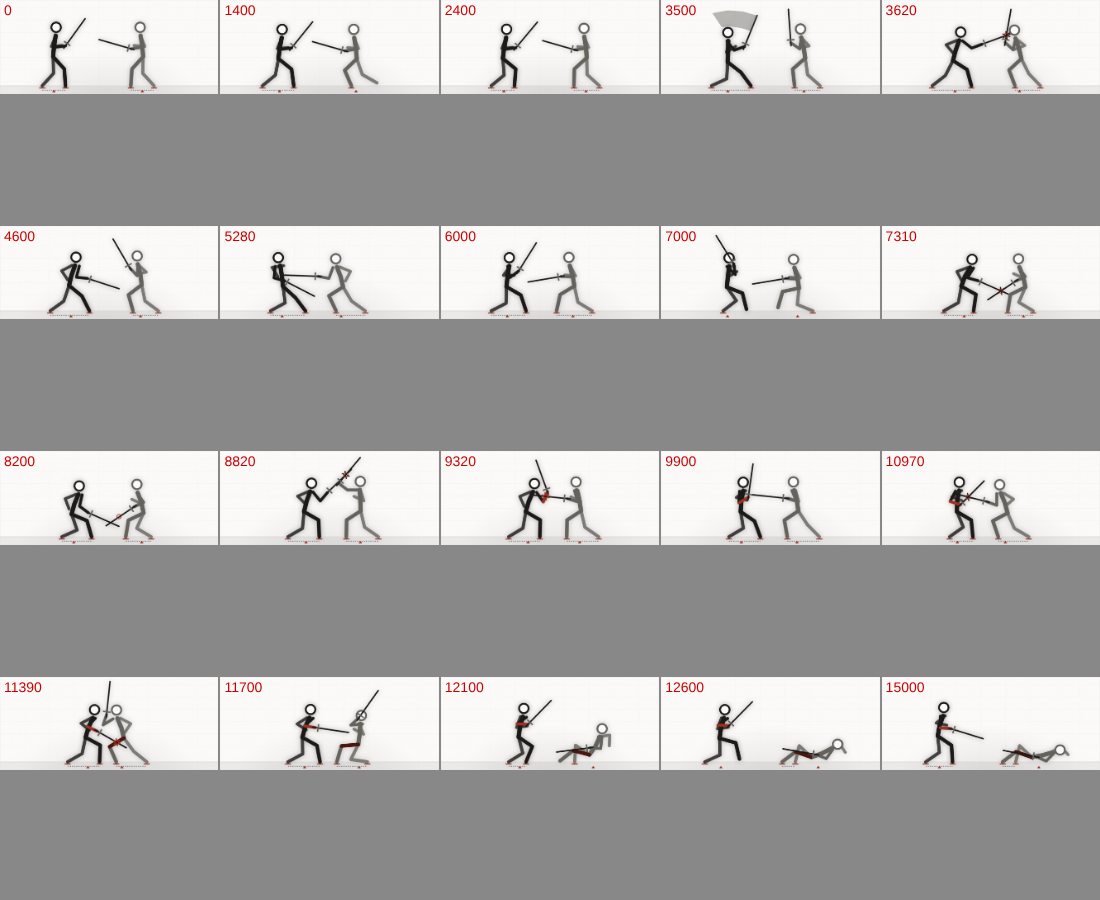
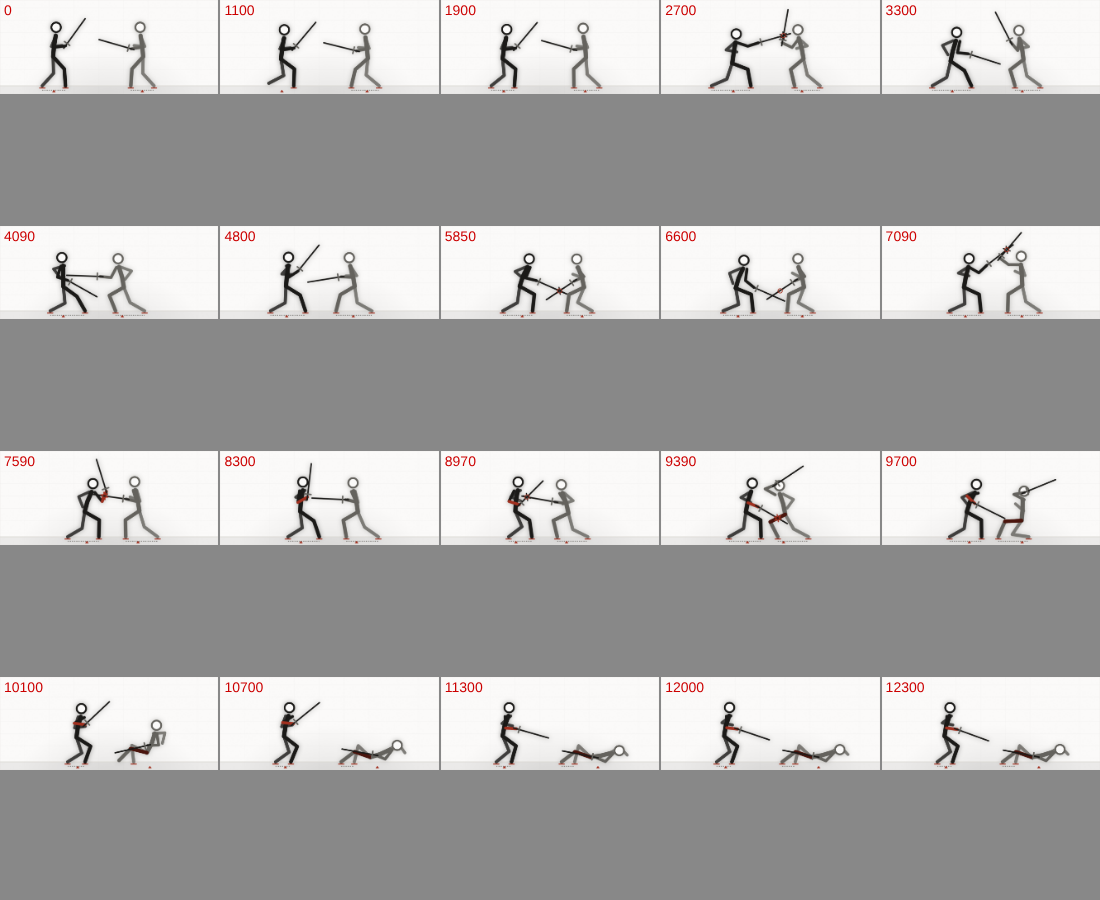
feat(pits): fight study smoother and never still
Owner's review: basically there, but not smooth; a little faster; nobody is ever
still in a real fight. Eased keys (target smoothing), a live drift on every
fighter (weight, breathing, guard, head), smooth foot arcs with the hips
travelling as the foot leaves, hips easing down before a leg runs out. About
12.3 s. Fixed: B's point left in A's chest after the deflection, A's thigh cut
carrying into B's hip, an over-long last step. Body jerk (worst 1%) 0.06 to 0.01.

Claude-Session: https://claude.ai/code/session_018bTfyrAX6cckCNBNYAZYCu

diff --git a/experiments/pits-fight.js b/experiments/pits-fight.js
@@ -22,6 +22,16 @@ function buildFight(){
   const A=new Fighter('a',480,1,WEAPONS.sword,{...SWORD_GUARD,h:[27,-28],w:54});
   const B=new Fighter('b',720,-1,{...WEAPONS.sword},{...SWORD_GUARD,h:[26,-36],w:16});
   A.spring=B.spring=FIRM;A.minReach=B.minReach=20;
+  // smooth: every key is eased into (35 ms; strikes a third of that), so nothing starts from rest with a jolt
+  A.smooth=B.smooth=35;
+  // steps: a foot lifts and lands on a smooth arc, and the hips start travelling as it leaves (not at mid-step)
+  A.liftShape=B.liftShape=1;A.stepLead=B.stepLead=.1;
+  // alive: a slow weight shift, breathing, the guard and the head never quite still (amplitudes in rig units and degrees,
+  // periods in ms; each fighter has its own phases). Once B is down only the breathing is left.
+  const LIFE=(ph)=>({amp:{px:2.2,py:1.3,lean:1.4,bend:.8,head:1.6,turn:1.5,hx:1.8,hy:1.6,wr:3.5,ox:2.2,oy:2},
+    per:{px:1900,py:1150,lean:2300,bend:1700,head:1500,turn:2100,hx:1350,hy:1750,wr:1600,ox:1450,oy:1250},
+    ph:Object.fromEntries(['px','py','lean','bend','head','turn','hx','hy','wr','ox','oy'].map((c,i)=>[c,ph+i*1.7]))});
+  A.life=LIFE(0);B.life=LIFE(2.1);
   const F={a:A,b:B};
   const seq={id:'fight',title:'A fight in ten beats',fighters:F,marks:[],pauses:[],stops:[],fx:[],wounds:[],contacts:{},
     contactList:[],misses:[],notes:[],beats:[],grips:[],names:{a:'A',b:'B'},scripted:true};
@@ -29,7 +39,7 @@ function buildFight(){
   const beat=(n,t,short,label)=>{seq.beats.push({n,t,short,label});mark(t,'both',n+'. '+label);};
   const pause=(t,label)=>seq.pauses.push({t,label});
   // between beats the fighters breathe: the knees and the chest give a little and come back. Nothing resets.
-  const GAP=650;
+  const GAP=380;
   const breathe=t0=>{const c=look(t0);for(const f of [A,B]){const o=c.out[f.id];
     f.key(t0+GAP*.45,{py:o.py-1.6,lean:o.lean+1.2},'together');f.key(t0+GAP*.95,{py:o.py,lean:o.lean},'together');}};
   const r2=t=>Math.round(t/REC)*REC;
@@ -86,15 +96,15 @@ function buildFight(){
   // ============ 1. Approach and measure ============
   let t=0;
   beat(1,t,'Approach','Approach and measure: A comes in a short step, B gives a little');
-  // a still moment first: both on guard, watching. Then A comes in one short step (front foot, then the rear foot
+  // a moment on guard, watching (never quite still). Then A comes in one short step (front foot, then the rear foot
   // follows) and B gives a little (rear foot back, then the front foot draws after it); the points stay on each other
-  A.walk('ff',1120,1340,52,{py:77,lift:8,settle:.5});
-  A.walk('bf',1500,1680,-12,{py:75,lift:8,settle:.5,load:.4});
-  A.key(1200,{lean:7,bend:4,head:-8,h:[27,-28],w:50});
-  B.walk('bf',1300,1500,-46,{py:77,lift:8,settle:.45});
-  B.walk('ff',1640,1810,24,{py:77,lift:8,settle:.5,load:.25});
-  B.key(1380,{lean:4,bend:5,head:-7,h:[26,-36],w:16});
-  t=2400;pause(t,'Measure taken. A chooses to attack.');breathe(t);t+=GAP;
+  A.walk('ff',620,840,52,{py:77,lift:8,settle:.5});
+  A.walk('bf',980,1160,-12,{py:75,lift:8,settle:.5,load:.4});
+  A.key(700,{lean:7,bend:4,head:-8,h:[27,-28],w:50});
+  B.walk('bf',800,1000,-46,{py:77,lift:8,settle:.45});
+  B.walk('ff',1120,1290,24,{py:77,lift:8,settle:.5,load:.25});
+  B.key(880,{lean:4,bend:5,head:-7,h:[26,-36],w:16});
+  t=1750;pause(t,'Measure taken. A chooses to attack.');breathe(t);t+=GAP;
 
   // ============ 2. First cut, caught by a parry ============
   beat(2,t+50,'Cut, parried','A cuts diagonally at B\'s upper body; B meets it in front of the body and gives through elbow and knees');
@@ -105,7 +115,7 @@ function buildFight(){
   A.key(t2+330,{lean:18,bend:8,head:-14,turn:12,o:[-30,-42]});
   const tc2=t2+520;
   // the meeting point: in front of B's upper body, a little above the shoulder
-  const C2=(()=>{const c=look(tc2),s=on(B,'S')(tc2,c);return [s[0]+B.face*52,s[1]+4];})();
+  const C2=(()=>{const c=look(tc2),s=on(B,'S')(tc2,c);return [s[0]+B.face*61,s[1]+4];})();
   B.key(tc2-260,{px:9,py:74,lean:14,bend:6,head:-12,o:[2,-30]},'cover');
   aim(B,tc2-220,tc2,fixed(C2),100,20,{order:'cover',hold:40,blend:130,snap:1.4});
   aim(A,t2+300,tc2,fixed(C2),20,72,{through:[14,-22],hold:40,blend:60});
@@ -131,7 +141,7 @@ function buildFight(){
   B.walk('bf',t3+250,t3+370,-8,{py:67,lift:7,settle:.2,load:.25,lead:60});
   B.key(t3+200,{lean:14,bend:8,head:-14,turn:12,o:[-26,-40]});
   // A slips: weight back, the front foot comes back under, the chest turns away and leans out of the line
-  A.walk('ff',t3+170,t3+330,84,{py:68,lift:9,settle:.35,load:.45});
+  A.walk('ff',t3+170,t3+330,84,{py:68,lift:9,settle:.35,load:.45,push:160});
   A.key(t3+190,{lean:-8,bend:-4,head:-4,turn:-16,h:[12,-42],w:-95,o:[-6,-30]},'cover');      // the sword hand drops, the point straight down, under the line of the cut
   // B's level cut: through where the ribs were, passing outside the turned body, and on into a controlled follow-through
   // the point passes about 10 units short of the turned body (exact, so the near miss is a near miss)
@@ -235,12 +245,13 @@ function buildFight(){
   A.key(t8+120,{lean:2,bend:8,head:-8,turn:-10,h:[12,-14],w:72,o:[8,-28]},'cover');
   // where the blades meet: in front of A's chest, near B's point
   const C8=(()=>{const c=look(tc8),p=on(A,'chest')(tc8,c);return [p[0]+A.face*28,p[1]-4];})();
-  aim(B,t8+260,tc8,fixed(C8),-2,52,{through:[16,0],hold:30,blend:70});
+  aim(B,t8+260,tc8,fixed(C8),-2,78,{through:[16,0],hold:30,blend:70});
   aim(A,t8+250,tc8,fixed(C8),45,30,{order:'cover',hold:30,blend:110,snap:1.5});
-  contact(tc8,'deflect',C8,{a:{who:'b',along:52},b:{who:'a',along:30},hold:30});
+  contact(tc8,'deflect',C8,{a:{who:'b',along:78},b:{who:'a',along:30},hold:30});
   // the deflection carries B's point up and out past A's head; B's weight is still going forward
   B.impulse(tc8+1,{hy:150,wr:70});
-  B.key(tc8+30,{h:[30,10],w:40,lean:14,bend:8},'together');
+  // thrown off the line: the hand comes back and up together, so the point leaves A's line as the blade rises
+  B.key(tc8+30,{h:[14,26],w:86,lean:12,bend:8},'together',{snap:1.6});
   A.key(tc8+40,{h:[16,-4],w:96},'together',{snap:1.3});
   seq.stops.push({t:r2(tc8),d:50});seq.fx.push({t:r2(tc8),kind:'clash',at:C8});
   mark(tc8,'a','Deflection: A\'s blade meets the thrust and carries the point out and up; B\'s weapon is left outside the line');
@@ -256,13 +267,15 @@ function buildFight(){
   seq.wounds.push({t:r2(tc9),who:'b',part:'rthigh',level:'major'});
   seq.stops.push({t:r2(tc9),d:90});seq.fx.push({t:r2(tc9),kind:'wound',at:P9});
   // B: the cut leg gives at once; the pelvis drops, the chest comes back up over it and the arms go out to save it
-  B.impulse(tc9+1,{py:-220,lean:-70,head:-60});
-  B.key(tc9+10,{px:16,py:50,lean:-6,bend:4,head:-6,turn:-6,h:[-6,16],w:130,o:[24,-8]},'together');     // the sword arm flies up and back
+  B.impulse(tc9+1,{py:-300,lean:-70,head:-60});
+  B.key(tc9+10,{px:2,py:44,lean:-6,bend:4,head:-6,turn:-6,h:[-6,16],w:130,o:[24,-8]},'together');     // the sword arm flies up and back
   mark(tc9,'b','The cut lands on B\'s forward thigh: the leg gives, the pelvis drops and the chest comes back up over it');
 
   // ============ 10. Collapse and finish ============
   beat(10,tc9+260,'Collapse','B goes down onto the cut leg and over; A stops the blade, recovers its balance and stands guard');
   const t10=tc9+260;
+  // from the thigh cut on, B is no longer guarding: the drift fades, and once down only the breathing is left
+  B.life.scale=(tt,c)=>tt<tc9?1:tt>t10+700?(c==='lean'||c==='bend'?1.2:0):Math.max(0,1-(tt-tc9)/400);
   // the cut leg cannot hold: the weight drops onto that side, the hips go down and back past the rear foot and B sits
   // down hard, then goes over onto the back. The sword arm goes with the body and the empty hand takes the fall.
   // Nothing comes back up.
@@ -271,22 +284,22 @@ function buildFight(){
   B.key(t10+560,{px:-22,py:13,lean:-70,bend:8,head:6,h:[40,-16],w:0,o:[-40,-10]});
   B.key(t10+900,{lean:-80,bend:6,head:2,h:[44,-12],w:2,o:[-44,-6]});
   // the rear foot is dragged in under the body as B sits; the cut leg slides out in front
-  B.step('bf',t10+80,t10+260,22,3);
-  B.step('ff',t10+300,t10+560,58,3);
+  B.step('bf',t10+80,t10+260,22,4);
+  B.step('ff',t10+300,t10+560,58,4);
   // A: the follow-through is stopped, the hips come back over the feet, then two steps out, guard up, elbow still in
-  A.impulse(tc9+50,{hx:'stop',hy:'stop',wr:'stop'});
+  A.impulse(tc9+1,{hx:'stop',hy:'stop',wr:'stop'});
   // drawn out along the line it went in, then lifted clear
-  A.key(tc9+40,{h:[18,-36],w:-24},'attack',{snap:1.4});
+  A.key(tc9+20,{h:[0,-32],w:-30},'together',{snap:2});           // straight back along the line of the cut, angle kept
   A.key(tc9+200,{px:70,py:68,lean:8,bend:8,head:-10,h:[12,-12],w:60,o:[12,-26]},'attack');
   A.walk('ff',t10+260,t10+440,84,{py:70,lift:9,settle:.3,load:.4});
-  A.walk('bf',t10+560,t10+740,-30,{py:72,lift:8,settle:.5,load:.3});
+  A.walk('bf',t10+560,t10+740,2,{py:71,lift:8,settle:.5,load:.5});
   A.walk('ff',t10+860,t10+1040,44,{py:72,lift:8,settle:.45,load:.35});
   A.key(t10+1000,{lean:10,bend:10,head:-16,turn:-8,h:[22,-36],w:-30,o:[10,-26]});
   mark(t10+600,'b','Down: B sits down hard on the cut side and goes over; B does not get up');
   mark(t10+760,'a','A stands off in a cautious guard, the cut forearm still held in close');
   t=t10+760;
 
-  seq.end=t+2600;seq.dur=seq.end+10;
+  seq.end=t+1900;seq.dur=seq.end+10;
   seq.rec=run(seq.dur);seq.marks.sort((x,y)=>x.t-y.t);
   return seq;
 }

diff --git a/experiments/pits-spring.js b/experiments/pits-spring.js
@@ -53,7 +53,7 @@ Fighter.prototype.walk=function(foot,t0,t1,x,opt){
   this.step(foot,t0,t1,x,o.lift==null?10:o.lift);
   this.key(t0-(o.lead==null?170:o.lead),{px:sup+(from-sup)*(o.load==null?.2:o.load),py:py-3});
   // the hips travel while the foot is in the air (a spring arrives late, so the key is set at mid-step)
-  this.key(t0+(t1-t0)*.4,{px:sup+(x-sup)*(o.settle==null?.45:o.settle),py});
+  this.key(t0+(t1-t0)*(this.stepLead==null?.4:this.stepLead),{px:sup+(x-sup)*(o.settle==null?.45:o.settle),py});
   // push: the foot that is about to leave drives the hips toward the support foot (out of a lunge, where the stance is
   // too long for the hips to get over the rear foot first)
   if(o.push)this.impulse(t0,{px:Math.sign(sup-from)*o.push});
@@ -90,7 +90,7 @@ function footX(f,foot,t){
   return x;
 }
 function footY(f,foot,t){
-  for(const s of f.feet[foot])if(t>s.t0&&t<s.t1)return s.lift*Math.pow(Math.sin(Math.PI*(t-s.t0)/(s.t1-s.t0)),.6);
+  for(const s of f.feet[foot])if(t>s.t0&&t<s.t1)return s.lift*Math.pow(Math.sin(Math.PI*(t-s.t0)/(s.t1-s.t0)),f.liftShape||.6);
   return 0;
 }
 
@@ -137,7 +137,7 @@ function simulate(F,dur,opt){
   let ctxOut;
   if(from){
     t0=from.t+DT;
-    for(const id of ids){st[id]={x:{...from.st[id].x},v:{...from.st[id].v}};rec[id]=from.rec[id].slice(0,from.n);
+    for(const id of ids){const k=from.st[id];st[id]={x:{...k.x},v:{...k.v}};if(k.ts){st[id].ts={...k.ts};st[id].tv={...k.tv};}rec[id]=from.rec[id].slice(0,from.n);
       F[id].pins.forEach((p,i)=>{const k=from.pins[id][i];if(k){p.prev=k.prev&&{...k.prev};p.w=k.w;p.lastW=k.lastW;}});}
     ctxOut=from.out;
   }
@@ -150,7 +150,20 @@ function simulate(F,dur,opt){
       for(const c of CH){
         // the current target for this part (a pointer that only moves forward: time only moves forward)
         const L=tg[id][c];let i=ptr[id][c];while(i+1<L.length&&L[i+1].t<=t)i++;ptr[id][c]=i;
-        const e=L[i],sp=(F[id].spring||SPRING)[c],hz=sp[0]*(e.s||1),z=e.s?1:sp[1],w=2*Math.PI*hz,target=e.v;
+        const e=L[i],sp=(F[id].spring||SPRING)[c],hz=sp[0]*(e.s||1),z=e.s?1:sp[1],w=2*Math.PI*hz;
+        let target=e.v;
+        // alive (opt-in, f.life): a slow, never-repeating drift added to every target, so the body is never quite still
+        const lf=F[id].life;if(lf&&lf.amp[c]){const k=lf.scale?lf.scale(t,c):1;
+          if(k)target+=k*lf.amp[c]*(.65*Math.sin(2*Math.PI*t/lf.per[c]+lf.ph[c])+.35*Math.sin(2*Math.PI*t/(lf.per[c]*.61)+lf.ph[c]*2.3));}
+        // with smoothing on, the hips aim no higher than the planted legs allow (a little short of straight), so they
+        // ease down into a deeper stance before the hard leg limit below has to catch them
+        if(c==='py'&&F[id].smooth){const f=F[id],R=LEGLEN-4;
+          for(const ft of ['ff','bf']){const dx=s.x.px-footX(f,ft,t);if(Math.abs(dx)<R)target=Math.min(target,Math.max(0,footY(f,ft,t))+Math.sqrt(R*R-dx*dx));}}
+        // smoothing (opt-in, f.smooth ms): the spring follows a target that itself eases toward the key (critically
+        // damped), so a part never jumps from rest to full acceleration when a new key arrives. Strikes ease faster.
+        if(F[id].smooth){const ts=s.ts||(s.ts={...s.x}),tv=s.tv||(s.tv=Object.fromEntries(CH.map(k=>[k,0])));
+          const ws=1000/(e.s?F[id].smooth*.35:F[id].smooth);
+          tv[c]+=(ws*ws*(target-ts[c])-2*ws*tv[c])*DT/1000;ts[c]+=tv[c]*DT/1000;target=ts[c];}
         // semi-implicit Euler, per second
         const a=w*w*(target-s.x[c])-2*z*w*s.v[c];
         s.v[c]+=a*DT/1000;s.x[c]+=s.v[c]*DT/1000;
@@ -230,7 +243,7 @@ function simulate(F,dur,opt){
     if(t%REC===0)for(const id of ids)rec[id].push({...out[id]});
     ctx.out=out;ctx.t=t;
     if(t%SNAP===0)snaps.push({t,n:rec[ids[0]].length,out,pins:pinState(F),
-      st:Object.fromEntries(ids.map(id=>[id,{x:{...st[id].x},v:{...st[id].v}}]))});
+      st:Object.fromEntries(ids.map(id=>[id,{x:{...st[id].x},v:{...st[id].v},ts:st[id].ts&&{...st[id].ts},tv:st[id].tv&&{...st[id].tv}}]))});
   }
   Object.defineProperty(rec,'_snaps',{value:snaps,enumerable:false});
   return rec;

diff --git a/experiments/pits-fight-study.html b/experiments/pits-fight-study.html
@@ -55,8 +55,8 @@ document.documentElement.setAttribute("data-mode",m);})();}catch(e){}</script>
   <p class="pc-keys">Space: play or pause. Left and right arrows: one frame (1/60 s). Drag the bar to stop on any moment.</p>
 </main>
 <script src="pits-motion.js?v=e51da43e1a"></script>
-<script src="pits-spring.js?v=5412483cf0"></script>
-<script src="pits-fight.js?v=0c131174b9"></script>
+<script src="pits-spring.js?v=13c53da3ad"></script>
+<script src="pits-fight.js?v=d0f5c69b56"></script>
 <script src="pits-exchange-study.js?v=ed8a2e4708"></script>
 </body>
 </html>

diff --git a/experiments/pits-exchange-study.html b/experiments/pits-exchange-study.html
@@ -54,7 +54,7 @@ document.documentElement.setAttribute("data-mode",m);})();}catch(e){}</script>
   <p class="pc-keys">Space: play or pause. Left and right arrows: one frame (1/60 s). Drag the bar to stop on any moment.</p>
 </main>
 <script src="pits-motion.js?v=e51da43e1a"></script>
-<script src="pits-spring.js?v=5412483cf0"></script>
+<script src="pits-spring.js?v=13c53da3ad"></script>
 <script src="pits-exchange-study.js?v=ed8a2e4708"></script>
 </body>
 </html>

diff --git a/docs/pits-animation-direction.md b/docs/pits-animation-direction.md
@@ -202,6 +202,24 @@ Stills at 600 ms through the whole fight (normal-speed spacing) and at 70 to 90 
 - Several requested blade angles were adjusted to what the arm can hold (logged in `seq.notes`): B's low cover points less steeply down; the cut to the forearm comes in flatter than asked.
 - Everything is tuned for this one fight; the live Pits would need these phrases generalised.
 
+**Smoother and never still (owner's review, 2026-11-12).** The owner said the movement is basically there but not smooth: speed it up a little, and in a real fight nobody is ever still. These options in `pits-spring.js` are opt-in, so the exchange study is unchanged; the fight uses them all.
+
+- **Smoothing** (`f.smooth`, 35 ms; strikes a third of that): each spring follows a target that itself eases toward the key, so a new key never starts a part from rest at full acceleration.
+- **Alive** (`f.life`): two slow sines per channel with different periods (about 1.1 to 2.3 s), added to the targets, with each fighter on its own phases. Contacts stay exact, because the constraints override it.
+- **Steps:** a smooth lift arc (`liftShape`), and the hips start travelling as the foot leaves (`stepLead`).
+- **Hips:** the hip target is limited ahead of the hard leg limit, so the hips ease down rather than being caught.
+
+Measured jerk (the third difference over 4 ms, worst 1%, outside contacts):
+
+| | Before | After |
+|---|---|---|
+| Body | 0.06 | 0.01 |
+| Hands | 0.26–0.43 | 0.16–0.17 |
+| Blade tips | 1.1–1.5 | 0.7–0.8 |
+| Time a fighter is still (in 100 ms windows) | 39% | A never more than 100 ms; B only once down, breathing |
+
+The fight is about 12.3 s (the breathing gaps are 380 ms of live movement instead of 650). Decision boundaries now fall mid-movement; a hold freezes that exact pose and resumes from it.
+
 ## For Sonnet: routine defects in the pose stage
 
 Items 2 and 3 now apply only to the pose stage behind `?stage=poses`; fix them only if the owner wants to keep it. Item 1 is fixed for both stages (2026-11-12), item 4 is done.

diff --git a/HANDOFF.md b/HANDOFF.md
@@ -16,6 +16,8 @@ _Last updated: 2026-11-12 by Claude (Pits: spring-driven exchange study)_
 
 ## Next
 
+00000000. **Claude, done 2026-11-12 (fight study, smoother and never still):** after the owner's review. Eased keys, a live drift so nobody is ever still, smoother steps, about 12.3 s; jerk numbers in `docs/pits-animation-direction.md`. **Owner:** watch `experiments/pits-fight-study.html` again and say whether it is smooth enough to start the live integration.
+
 0000000. **Claude, done 2026-11-12 (ten-beat fight study):** `experiments/pits-fight-study.html`, broadsword against broadsword, scripted fixtures, about 15 s. It plays straight through, with an optional hold at each decision. Smears and impact flashes are a layer that can be switched off. Details and weak points: `docs/pits-animation-direction.md`, "Ten-beat fight study". **Owner:** watch it at normal speed, then at half speed for any transition that looks wrong, and say whether it reads as one connected fight that ends because of the final wound. **Then Claude:** the first integration into the live Pits (sword cut, parry and miss from the engine's resolved results), keeping the pose stage for comparison until you approve.
 
 000000. **Claude, done 2026-11-12 (exchange study, second pass):** the owner's four points: sword recovery path, the sword arm caught, held and released, steps that carry weight, the wounded end stance (`docs/pits-animation-direction.md`, "Second pass (owner's review"). **Owner:** watch `experiments/pits-exchange-study.html` at normal and half speed. If it holds up, say so and Claude starts porting the spring layer into the live Pits, one phrase at a time (the ordinary sword cut and parry first).

diff --git a/CHANGELOG.md b/CHANGELOG.md
@@ -5,6 +5,17 @@ Entries before November 5, 2026 were merged from separate `CHANGELOG-<TOPIC>.md`
 
 ---
 
+## The Pits: fight study, smoother and never still (owner's review)
+
+- **Smoother.** Every new pose is eased into, so no part jumps from rest to full speed. Hips start travelling as a foot leaves, feet lift and land on a smooth arc, and the hips ease down before a leg runs out of length. The body's worst-case jerk is a sixth of what it was, the hands' about half.
+- **Never still.** A slow, never-repeating drift keeps both fighters alive: weight shift, breathing, the guard and the head. Once down, B only breathes. A decision hold still freezes the exact pose and resumes from it.
+- **A little faster:** about 12.3 s instead of 15.
+- **Fixed:**
+  - After the deflection, B's point was left in A's chest. It is now thrown up and off the line.
+  - A's thigh cut carried on into B's hip. It is now arrested at contact and drawn straight back out.
+  - A's last step back was longer than a leg.
+- Tests: `tests/pits-fight.cjs`, 18 checks, with new checks for never still, smoothness and blade clearance during contacts.
+
 ## The Pits: a ten-beat fight study (prototype)
 
 - **New page: `experiments/pits-fight-study.html`.** A whole fight, broadsword against broadsword, about 15 seconds, on the spring movement from the exchange study:
